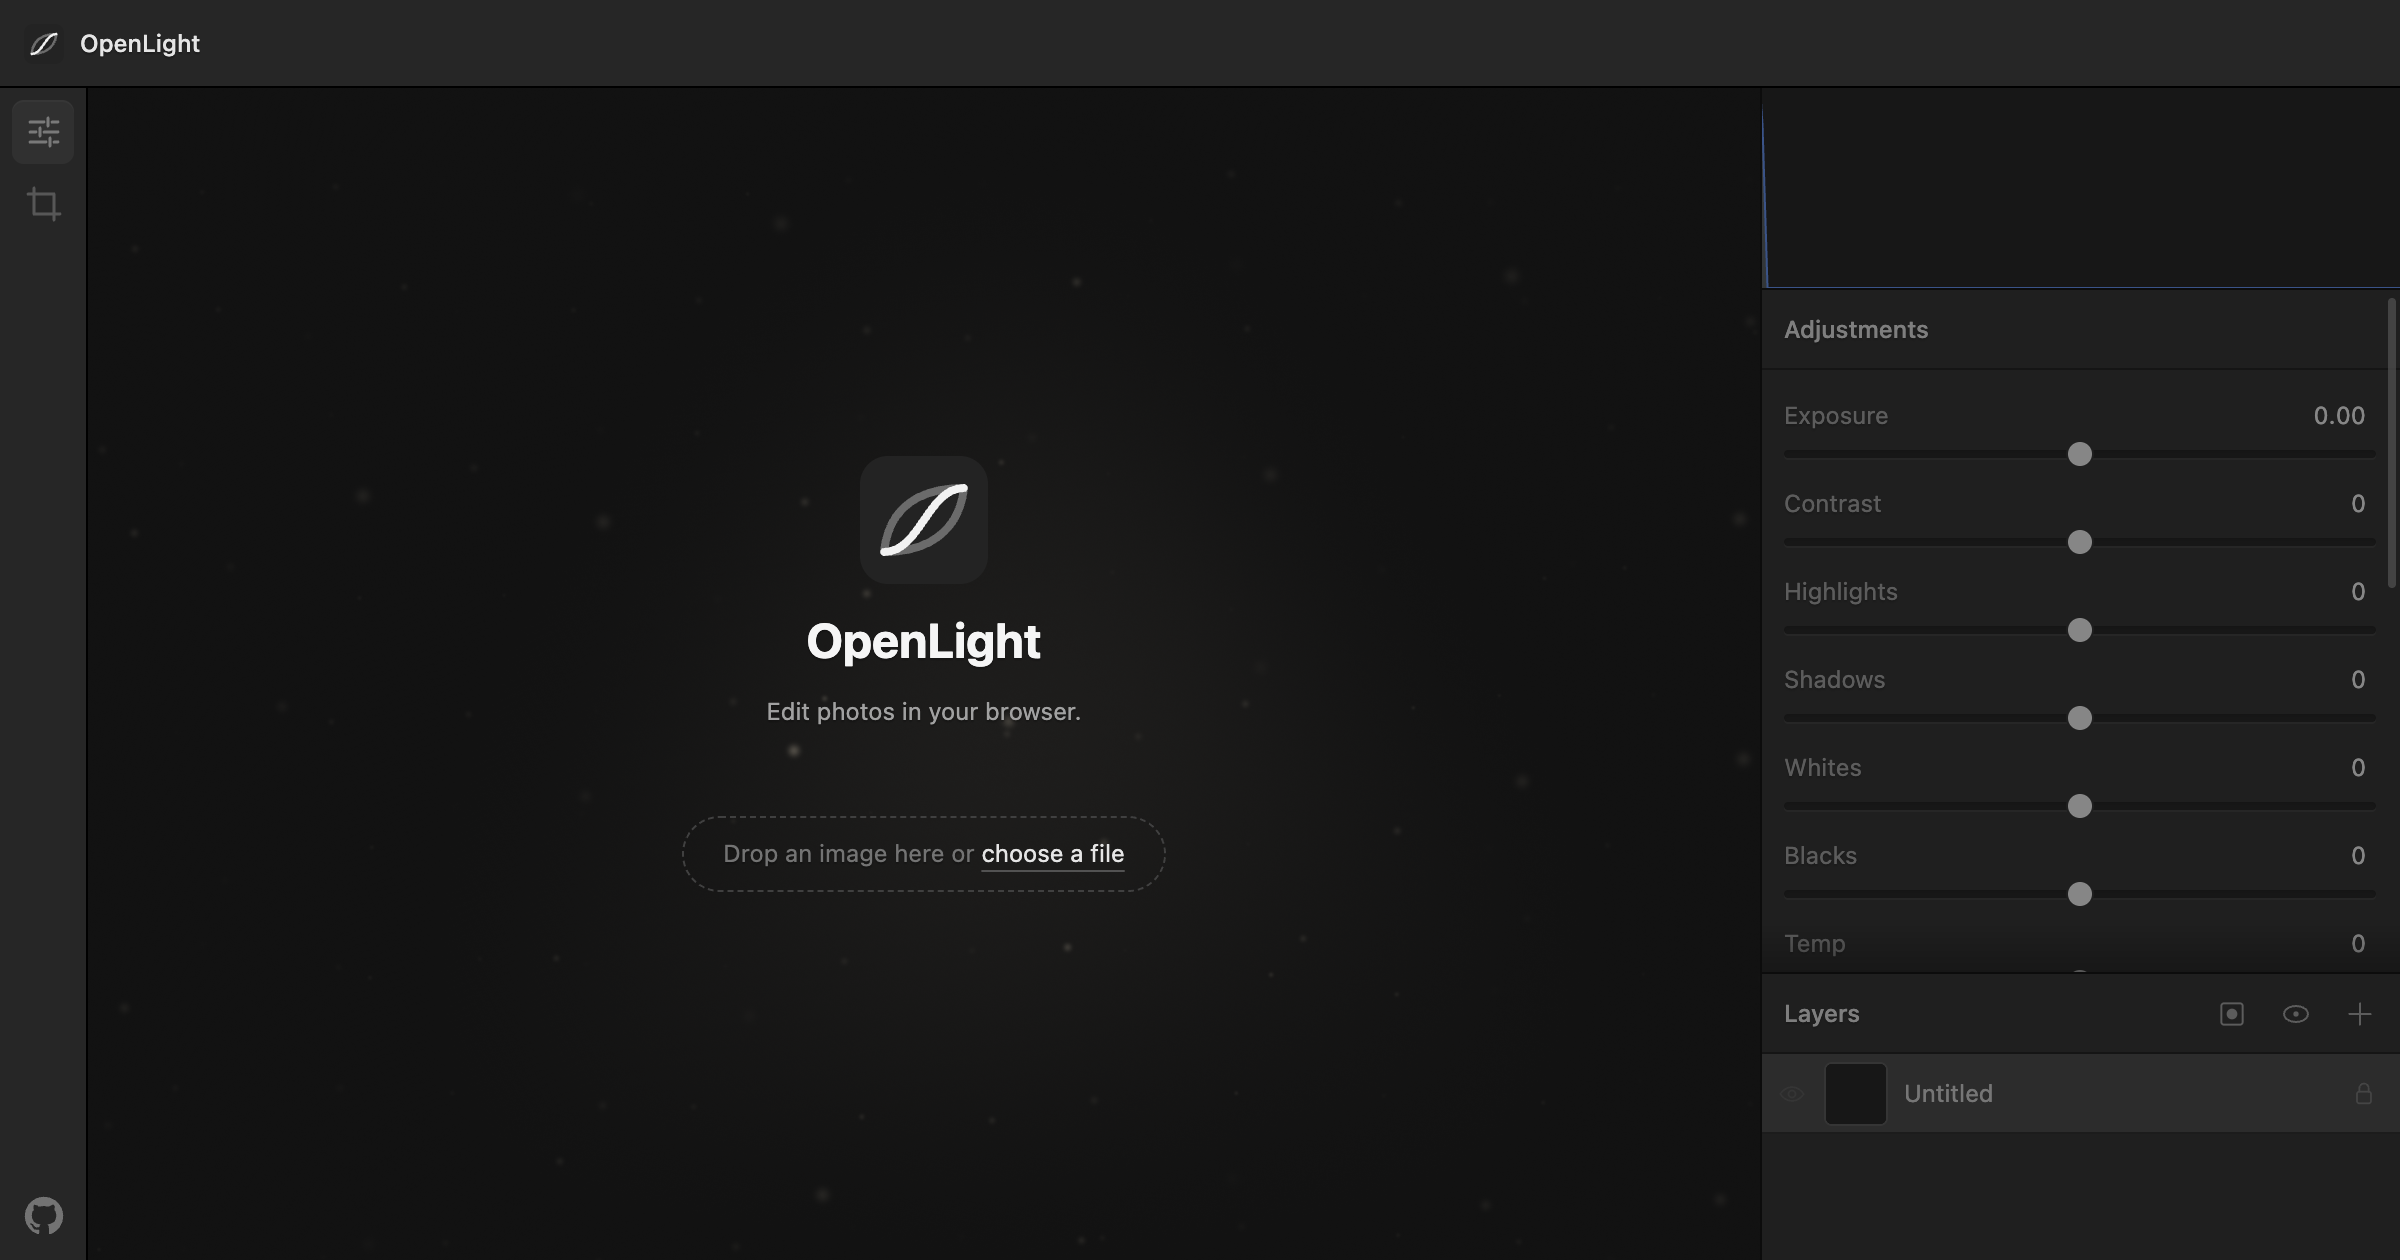
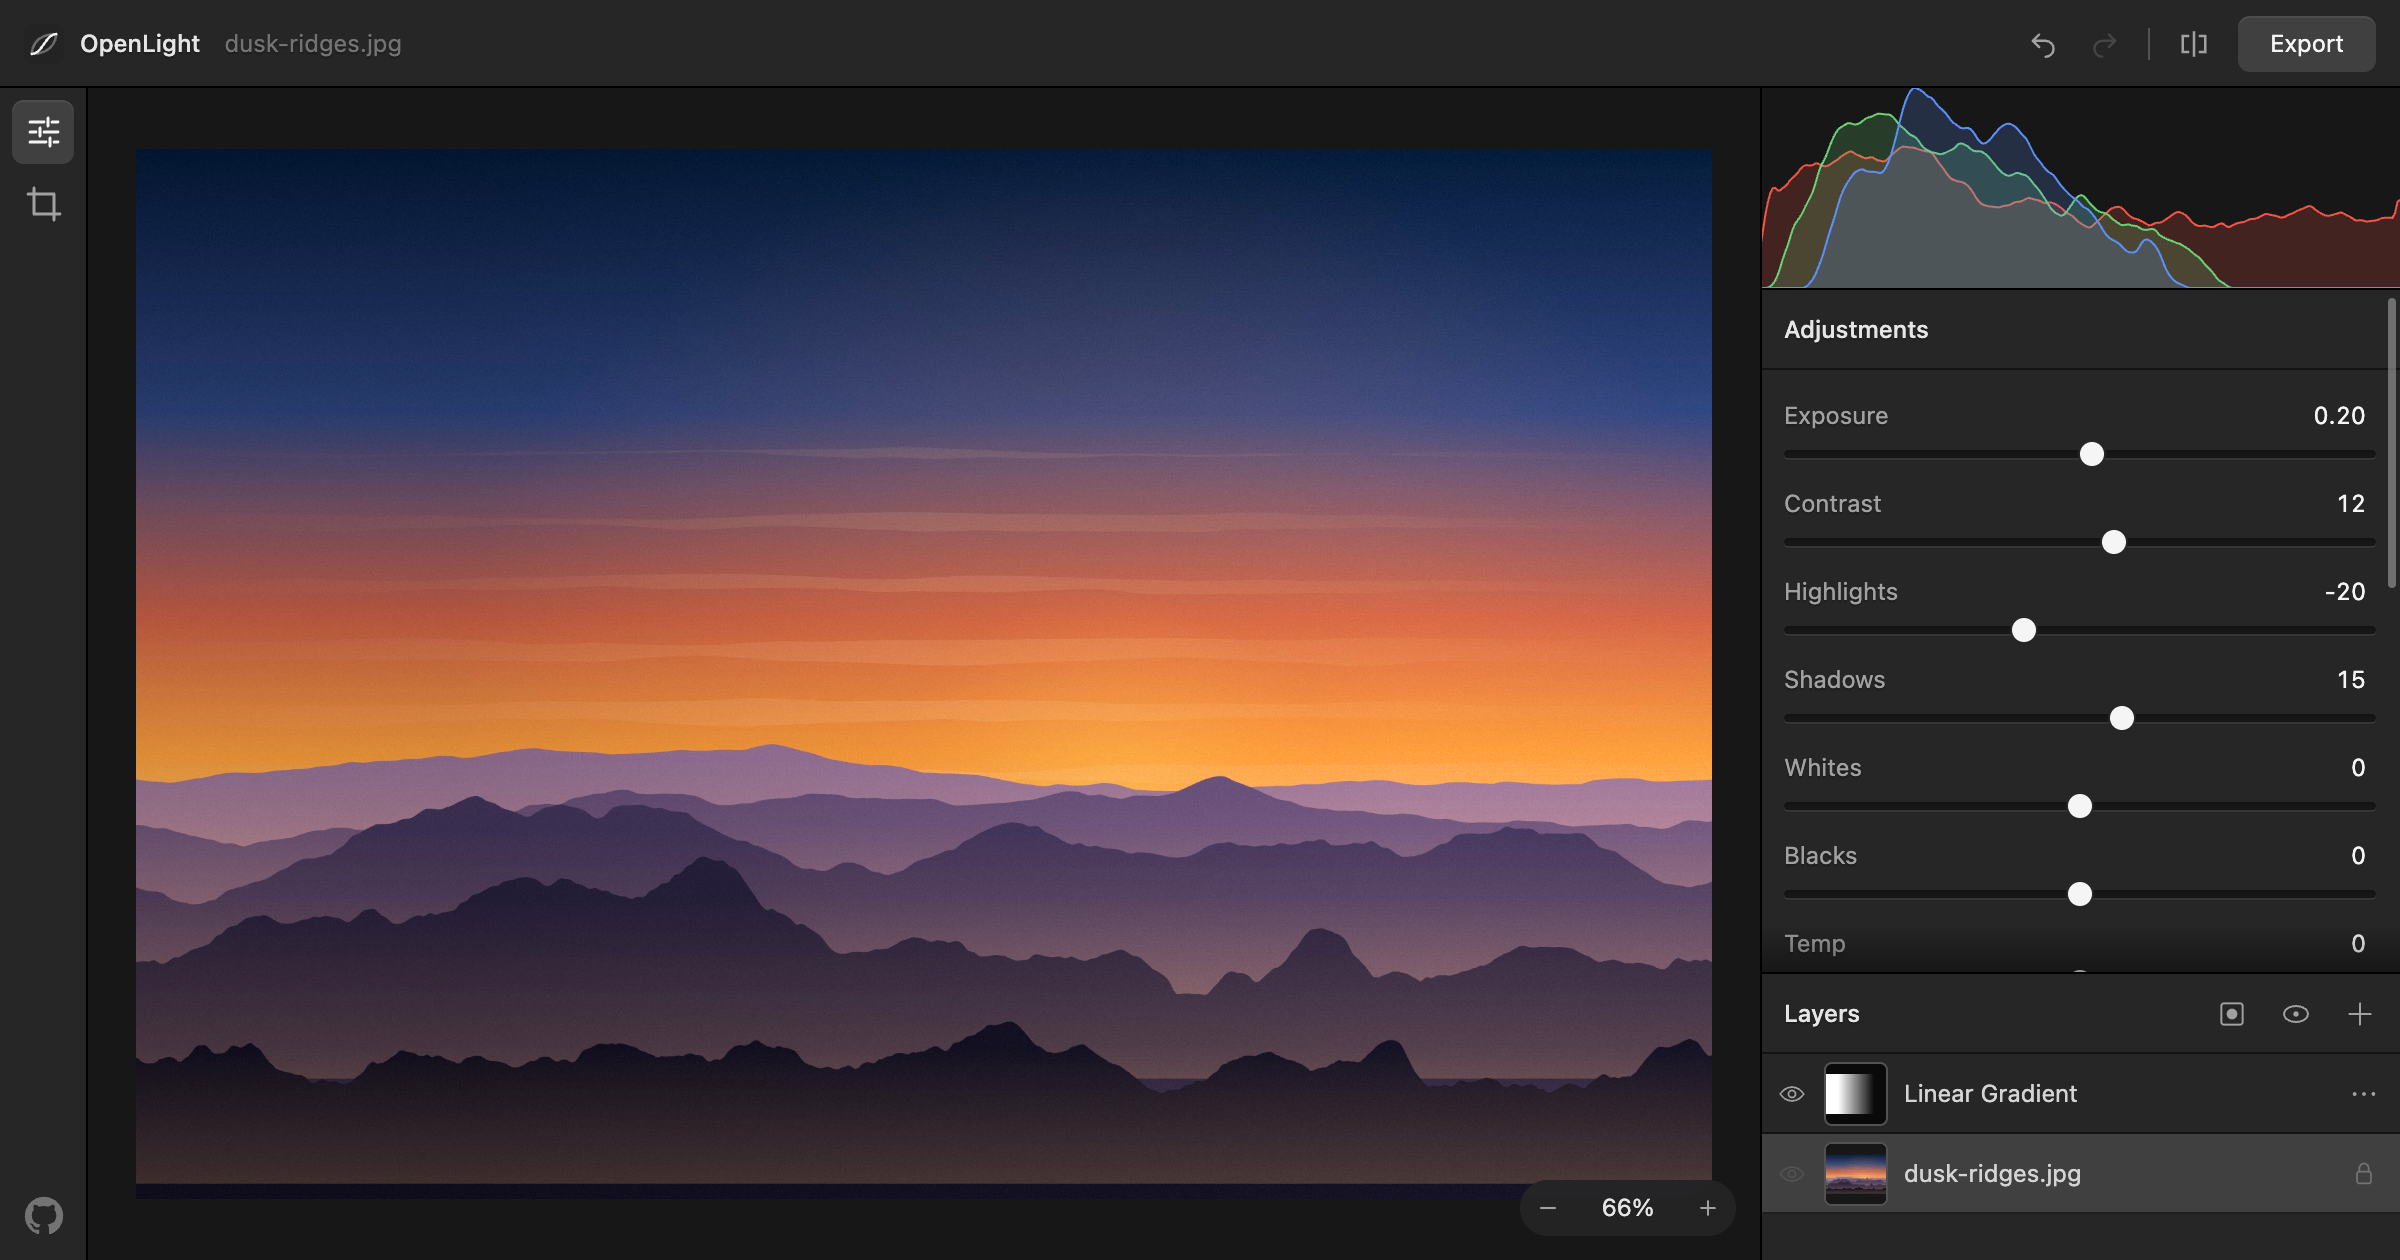
Show an edited landscape on the social card and README
The card now shows a generated dusk-ridges photo with adjustments and a gradient mask layer, instead of the empty start screen.

diff --git a/index.html b/index.html
@@ -18,12 +18,12 @@
     <meta property="og:image" content="https://openlight.app/og.png" />
     <meta property="og:image:width" content="2400" />
     <meta property="og:image:height" content="1260" />
-    <meta property="og:image:alt" content="The OpenLight editor before a photo is opened." />
+    <meta property="og:image:alt" content="The OpenLight editor with a dusk landscape open and a gradient mask layer." />
     <meta name="twitter:card" content="summary_large_image" />
     <meta name="twitter:title" content="OpenLight" />
     <meta name="twitter:description" content="Edit photos in your browser. An open-source photo editor built on WebGPU." />
     <meta name="twitter:image" content="https://openlight.app/og.png" />
-    <meta name="twitter:image:alt" content="The OpenLight editor before a photo is opened." />
+    <meta name="twitter:image:alt" content="The OpenLight editor with a dusk landscape open and a gradient mask layer." />
   </head>
   <body>
     <div id="root"></div>

diff --git a/README.md b/README.md
@@ -4,7 +4,7 @@
 
 Image processing runs on your own GPU with WebGPU. Photos never leave your device.
 
-![The OpenLight editor before a photo is opened](public/og.png)
+![The OpenLight editor with a dusk landscape open and a gradient mask layer](public/og.png)
 
 ## Features
 
